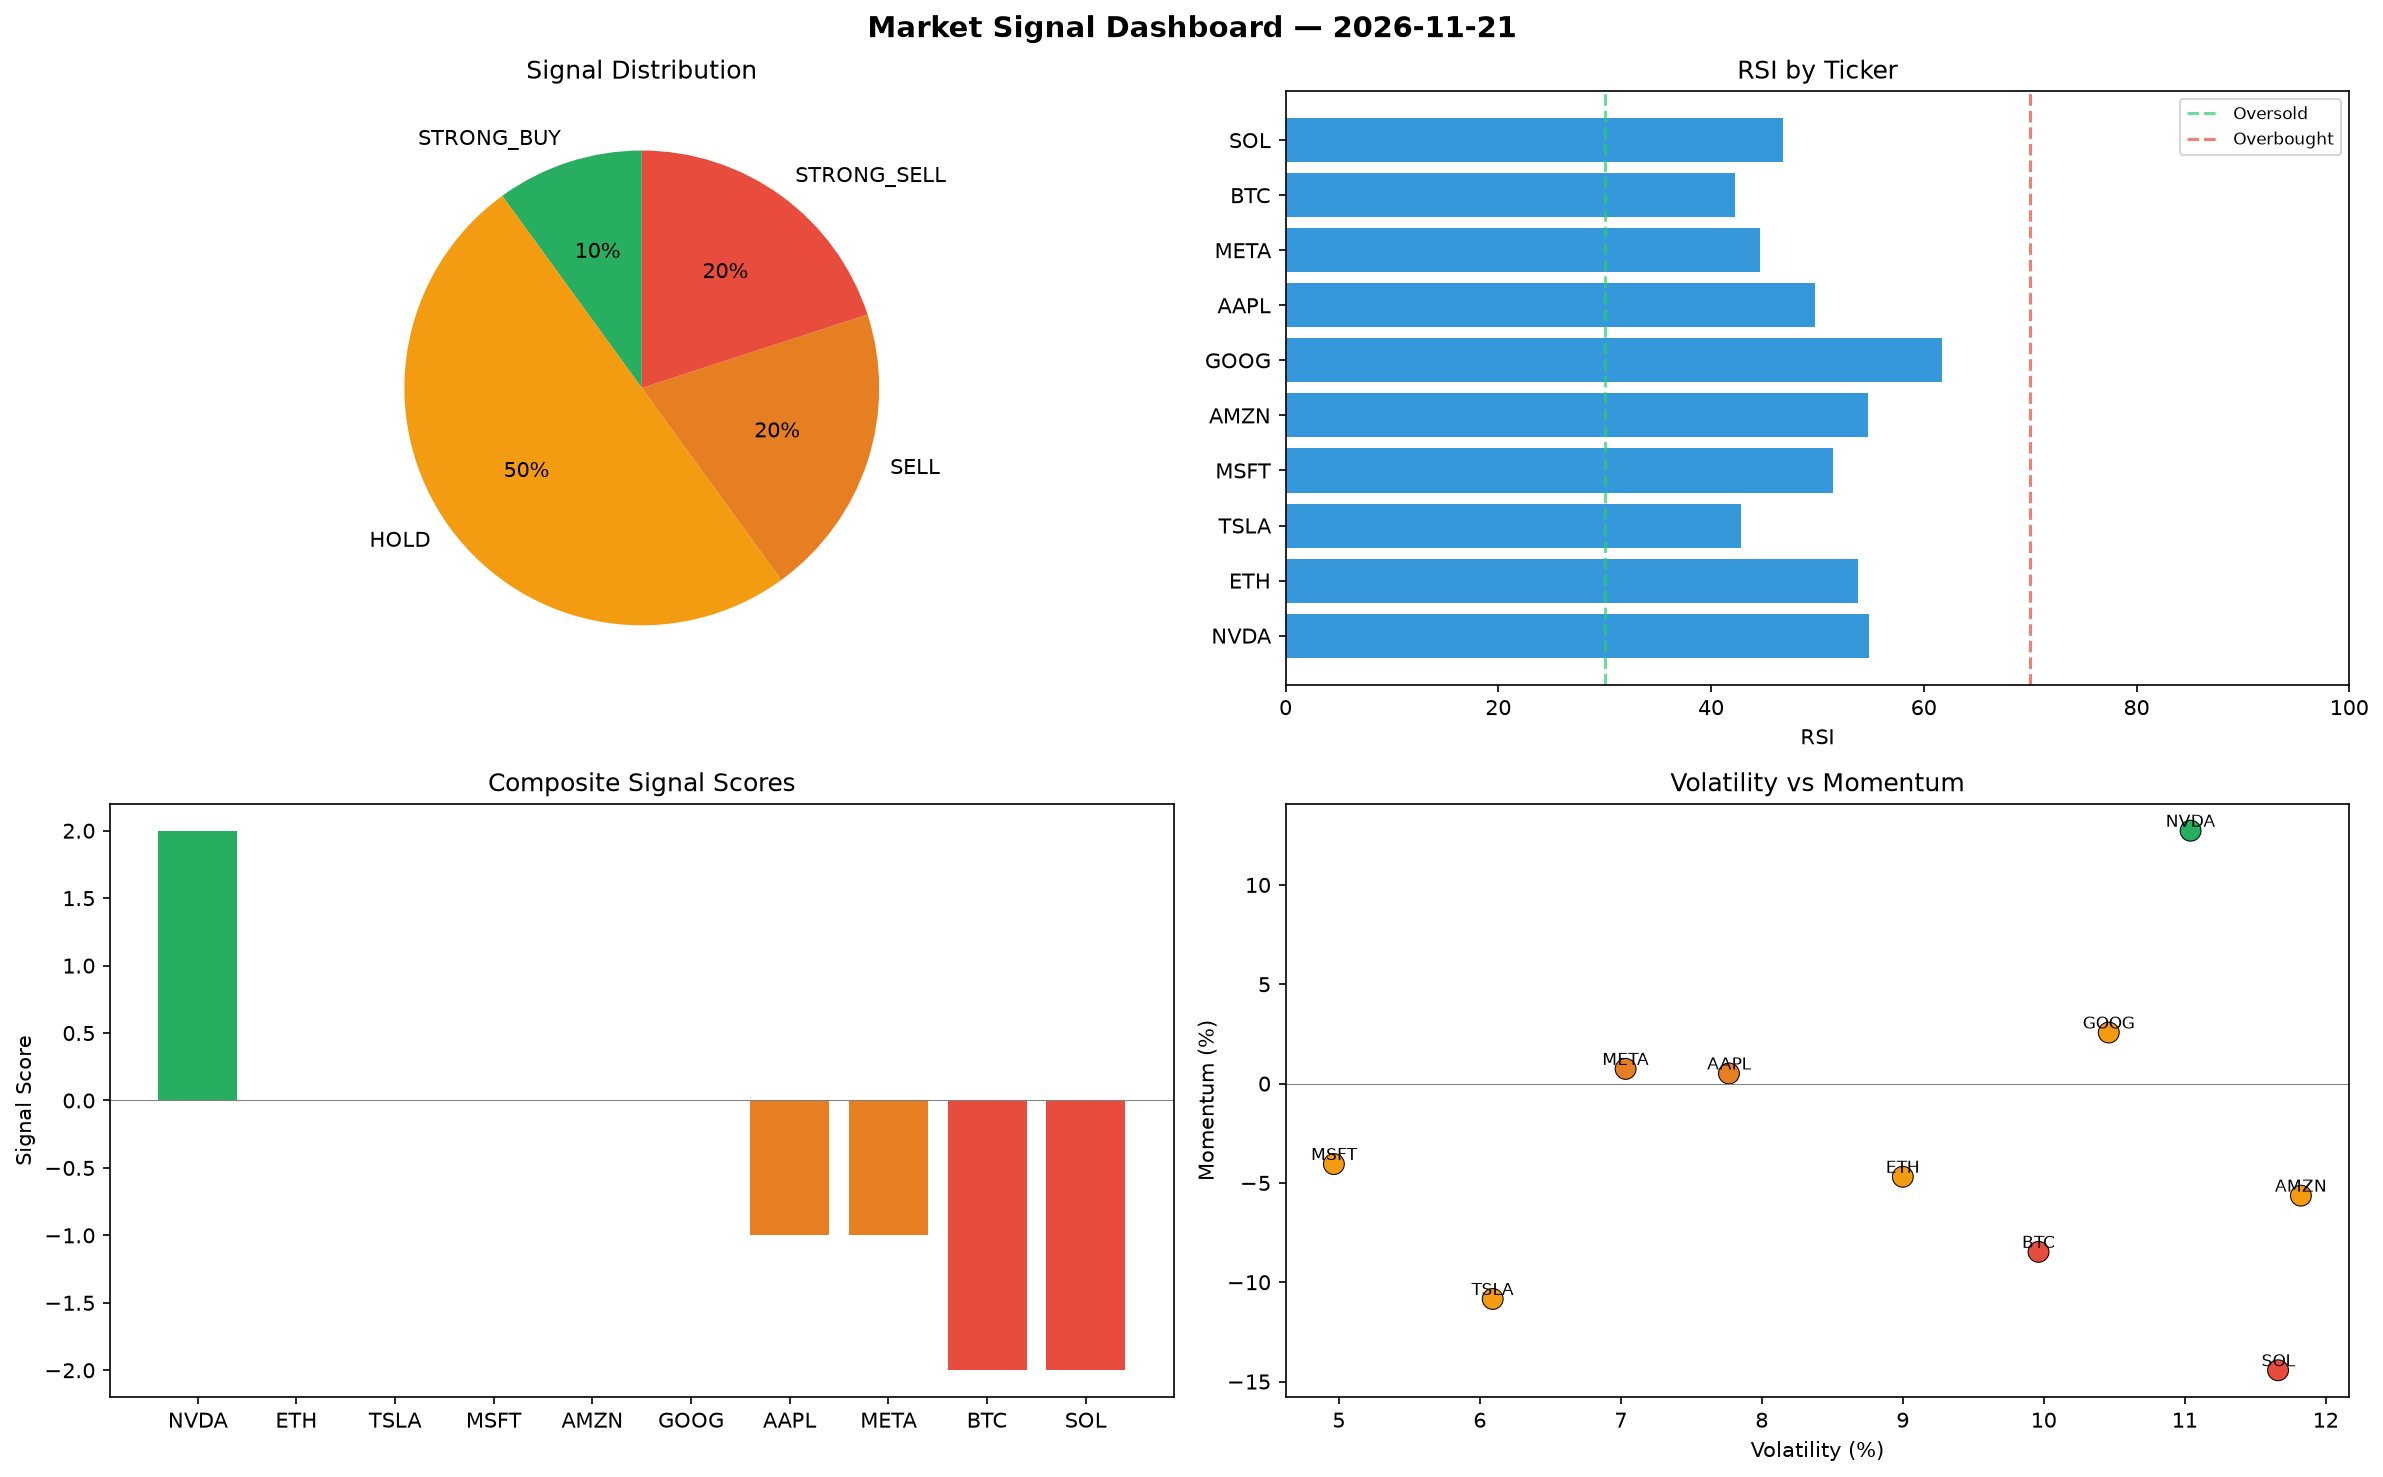
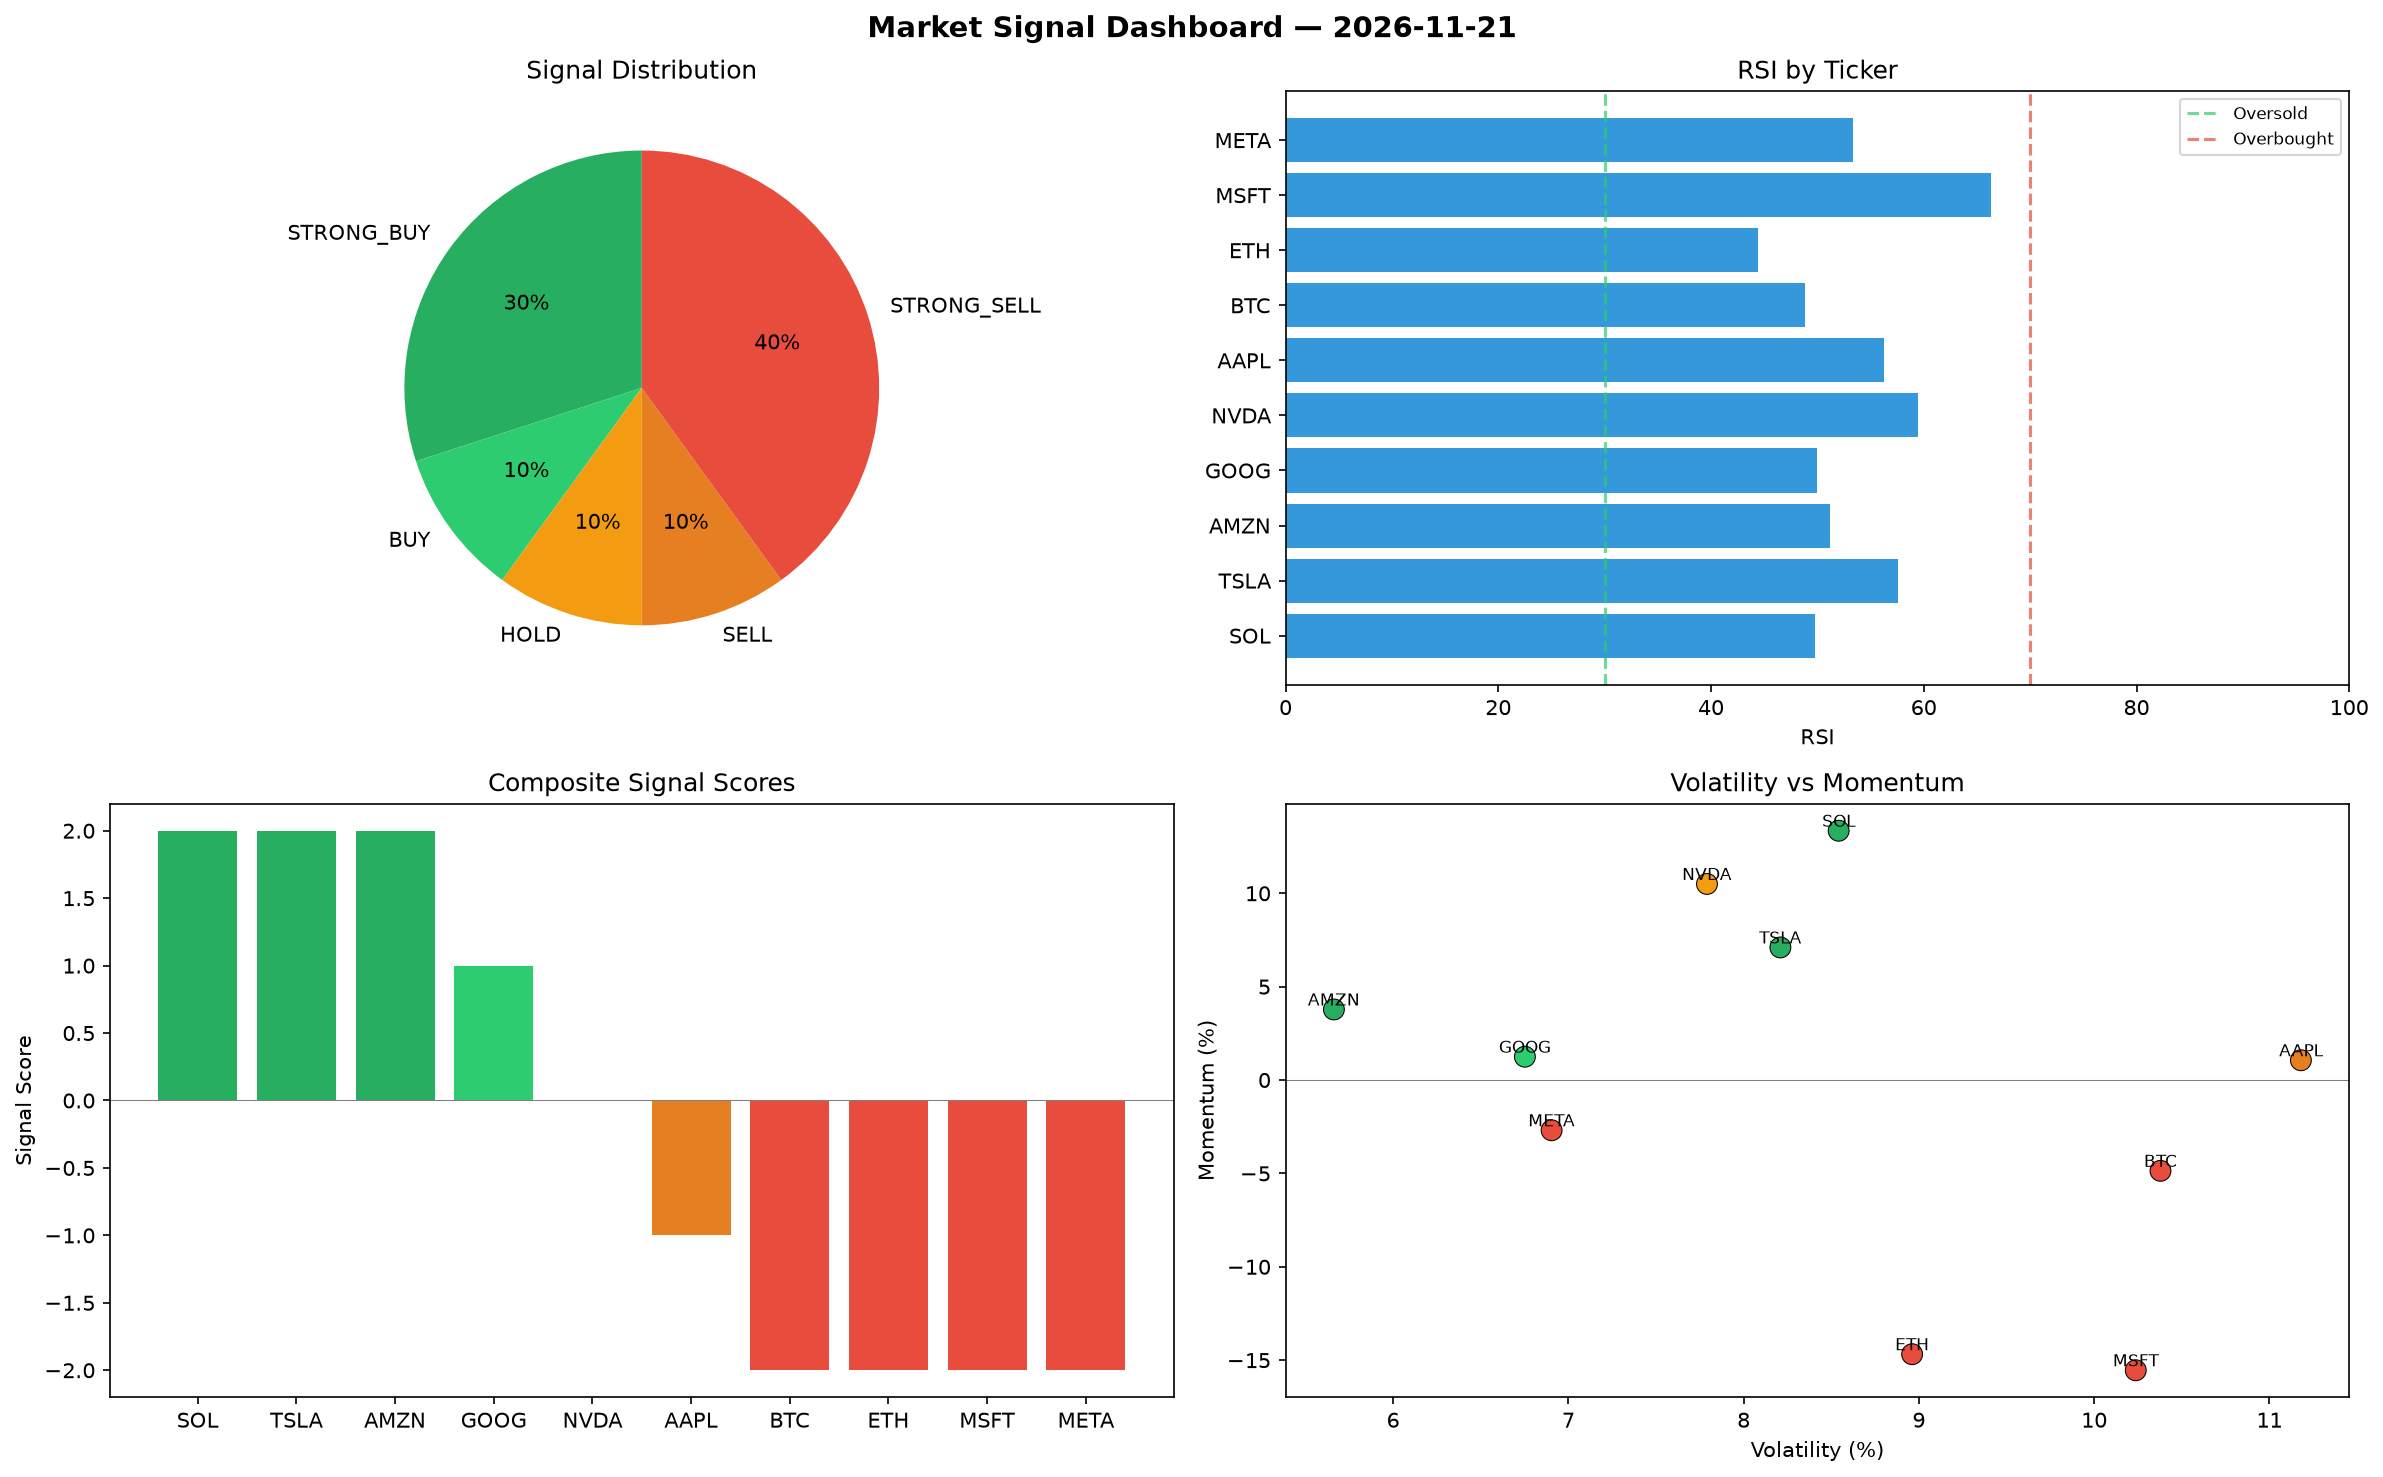
automated-bots: market signals 2026-11-21T10:01

diff --git a/logs/2026-11-21.md b/logs/2026-11-21.md
@@ -1,6 +1,6 @@
 # Market Signal Report — 2026-11-21
 
-**Run ID:** `83470974e1` | **Buy:** 1 | **Sell:** 4 | **Hold:** 5
+**Run ID:** `992bb8a678` | **Buy:** 4 | **Sell:** 5 | **Hold:** 1
 
 ![Dashboard](2026-11-21_dashboard.png)
 
@@ -8,28 +8,28 @@
 
 | Ticker | Price | Signal | Score | RSI | Momentum | Confidence |
 |--------|-------|--------|-------|-----|----------|------------|
-| NVDA | $2541.25 | **STRONG_BUY** | 2 | 54.87 | 0.1273 | 0.5 |
-| ETH | $662.29 | **HOLD** | 0 | 53.82 | -0.0469 | 0.0 |
-| TSLA | $1873.66 | **HOLD** | 0 | 42.86 | -0.1084 | 0.0 |
-| MSFT | $4371.47 | **HOLD** | 0 | 51.47 | -0.0405 | 0.0 |
-| AMZN | $1319.8 | **HOLD** | 0 | 54.76 | -0.0564 | 0.0 |
-| GOOG | $2937.81 | **HOLD** | 0 | 61.74 | 0.0257 | 0.0 |
-| AAPL | $1381.7 | **SELL** | -1 | 49.8 | 0.0051 | 0.25 |
-| META | $3118.79 | **SELL** | -1 | 44.65 | 0.0074 | 0.25 |
-| BTC | $3658.59 | **STRONG_SELL** | -2 | 42.25 | -0.0847 | 0.5 |
-| SOL | $3468.8 | **STRONG_SELL** | -2 | 46.72 | -0.1443 | 0.5 |
+| SOL | $4034.27 | **STRONG_BUY** | 2 | 49.79 | 0.1335 | 0.5 |
+| TSLA | $4337.5 | **STRONG_BUY** | 2 | 57.59 | 0.071 | 0.5 |
+| AMZN | $3573.79 | **STRONG_BUY** | 2 | 51.23 | 0.0378 | 0.5 |
+| GOOG | $4346.89 | **BUY** | 1 | 49.94 | 0.0125 | 0.25 |
+| NVDA | $1374.07 | **HOLD** | 0 | 59.47 | 0.105 | 0.0 |
+| AAPL | $3209.38 | **SELL** | -1 | 56.29 | 0.0106 | 0.25 |
+| BTC | $1455.98 | **STRONG_SELL** | -2 | 48.84 | -0.0486 | 0.5 |
+| ETH | $4134.42 | **STRONG_SELL** | -2 | 44.45 | -0.1468 | 0.5 |
+| MSFT | $1841.32 | **STRONG_SELL** | -2 | 66.29 | -0.1554 | 0.5 |
+| META | $2947.3 | **STRONG_SELL** | -2 | 53.39 | -0.0269 | 0.5 |
 
 ## Delta vs Yesterday
 
 | Ticker | Today | Yesterday | Price Change | Signal Changed |
 |--------|-------|-----------|-------------|----------------|
-| NVDA | STRONG_BUY | HOLD | 📈 108.22% | ⚠ YES |
-| ETH | HOLD | STRONG_SELL | 📉 -57.11% | ⚠ YES |
-| TSLA | HOLD | STRONG_BUY | 📈 3.82% | ⚠ YES |
-| MSFT | HOLD | STRONG_BUY | 📈 282.64% | ⚠ YES |
-| AMZN | HOLD | STRONG_BUY | 📈 157.59% | ⚠ YES |
-| GOOG | HOLD | HOLD | 📉 -27.09% | — |
-| AAPL | SELL | STRONG_BUY | 📉 -55.54% | ⚠ YES |
-| META | SELL | STRONG_SELL | 📈 5.16% | ⚠ YES |
-| BTC | STRONG_SELL | STRONG_SELL | 📈 63.24% | — |
-| SOL | STRONG_SELL | HOLD | 📈 287.71% | ⚠ YES |
+| SOL | STRONG_BUY | HOLD | 📈 350.91% | ⚠ YES |
+| TSLA | STRONG_BUY | STRONG_BUY | 📈 140.34% | — |
+| AMZN | STRONG_BUY | STRONG_BUY | 📈 597.5% | — |
+| GOOG | BUY | HOLD | 📈 7.87% | ⚠ YES |
+| NVDA | HOLD | HOLD | 📈 12.58% | — |
+| AAPL | SELL | STRONG_BUY | 📈 3.27% | ⚠ YES |
+| BTC | STRONG_SELL | STRONG_SELL | 📉 -35.04% | — |
+| ETH | STRONG_SELL | STRONG_SELL | 📈 167.77% | — |
+| MSFT | STRONG_SELL | STRONG_BUY | 📈 61.17% | ⚠ YES |
+| META | STRONG_SELL | STRONG_SELL | 📉 -0.62% | — |
